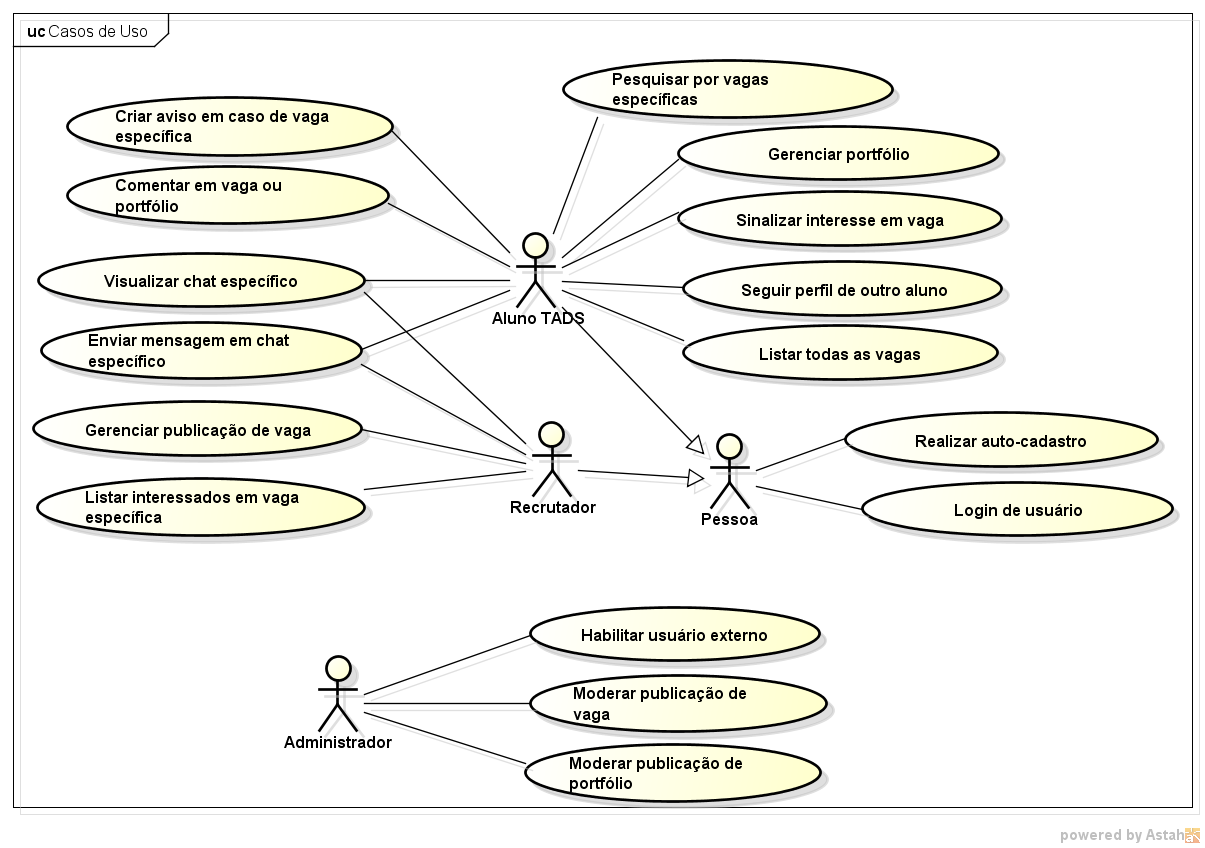
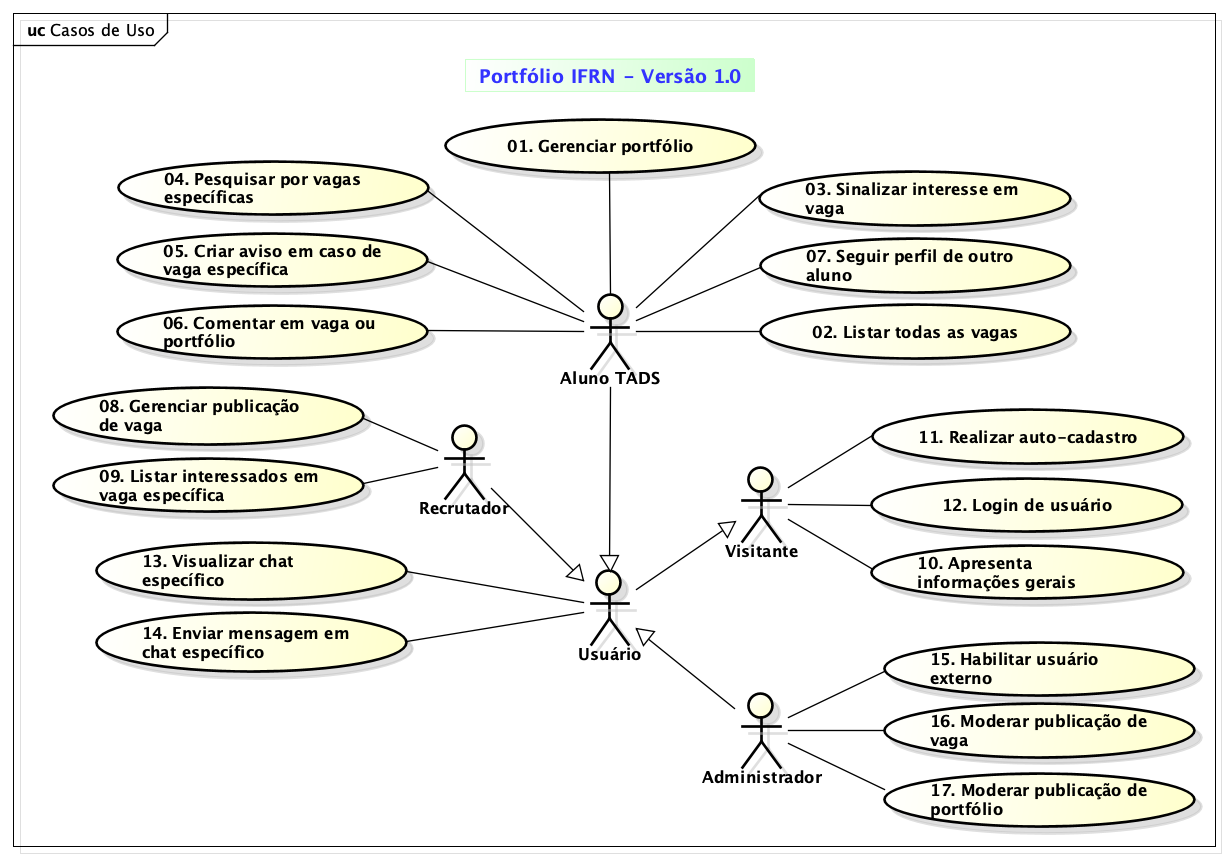
Fechamento da primeira versão do diagrama de casos de uso.

diff --git a/doc/cdu/cdu.md b/doc/cdu/cdu.md
@@ -5,7 +5,8 @@
 | Data | Versão | Descrição | Autores |
 | :--: | :----: | :-------: | :-----: |
 | 02/10/25 | 0.1 | Versão inicial do diagrama ed CDU | Fellipe Aleixo |
-| - | - | - |  - |
+| 07/10/25 | 1.0 | Complemento e fechamento da versão inicial |  Fellipe Aleixo |
+| - | - | - | - | 
 
 ## 1. Diagrama de Casos de Uso
 
@@ -13,5 +14,20 @@
 
 ## 2. Listagem dos Detalhamentos dos Casos de Uso
 
-1. [CDU-001 - Nome...](cdu-001/detalhamento-001.md)
-2. [CDU-002 - Nome...](cdu-002/detalhamento-002.md)
+1. [CDU-01 - Gerenciar portfólio](cdu-001/detalhamento-001.md)
+1. [CDU-02 - Listar todas as vagas](cdu-002/detalhamento-002.md)
+1. [CDU-03 - Sinalizar interesse em vaga](#)
+1. [CDU-04 - Pesquisar por vagas específicas](#)
+1. [CDU-05 - Criar aviso em caso de vaga específica](#)
+1. [CDU-06 - Comentar em vaga ou portifólio](#)
+1. [CDU-07 - Seguir perfil de outro aluno](#)
+1. [CDU-08 - Gerenciar publicação de vaga](#)
+1. [CDU-09 - Listar interessados em vagas específicas](#)
+1. [CDU-10 - Apresenta informações gerais do sistema](#)
+1. [CDU-11 - Realiza auto-cadastro](#)
+1. [CDU-12 - Login de usuário](#)
+1. [CDU-13 - Visualizar chat específico](#)
+1. [CDU-14 - Enviar mensagem em chat específico](#)
+1. [CDU-15 - Habilitar usuário externo](#)
+1. [CDU-16 - Moderar publicação de vaga](#)
+1. [CDU-17 - Moderar publicação de portfólio](#)
